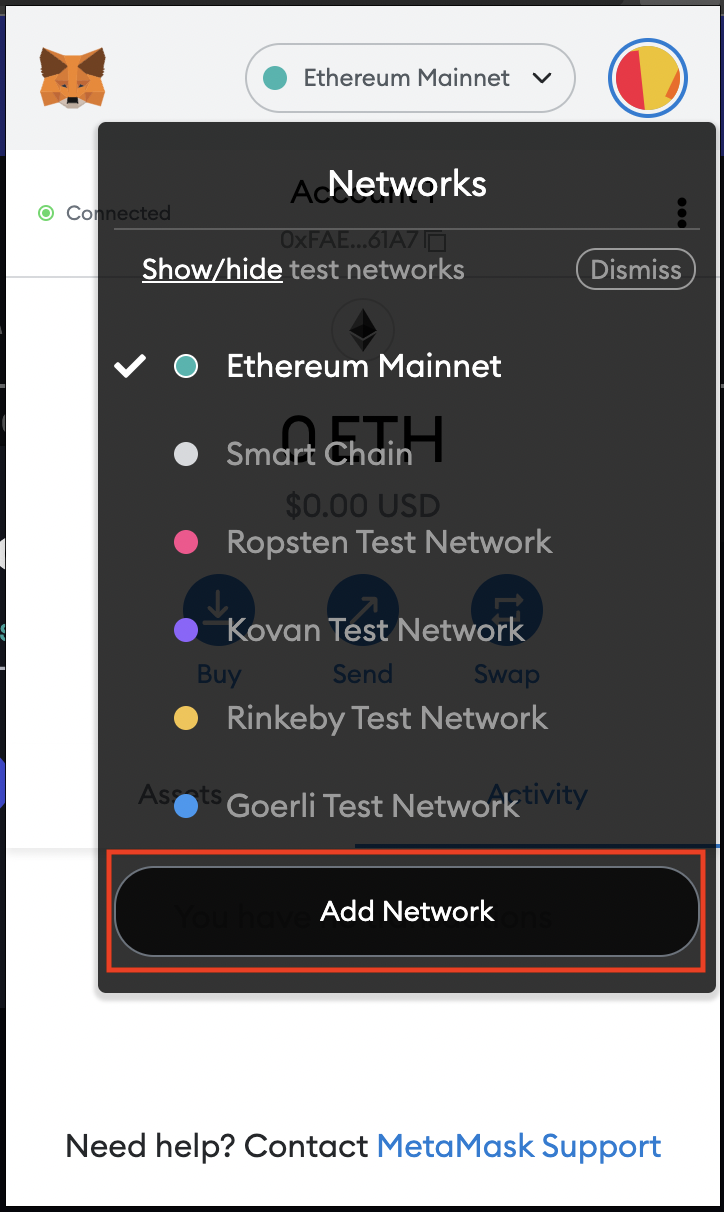
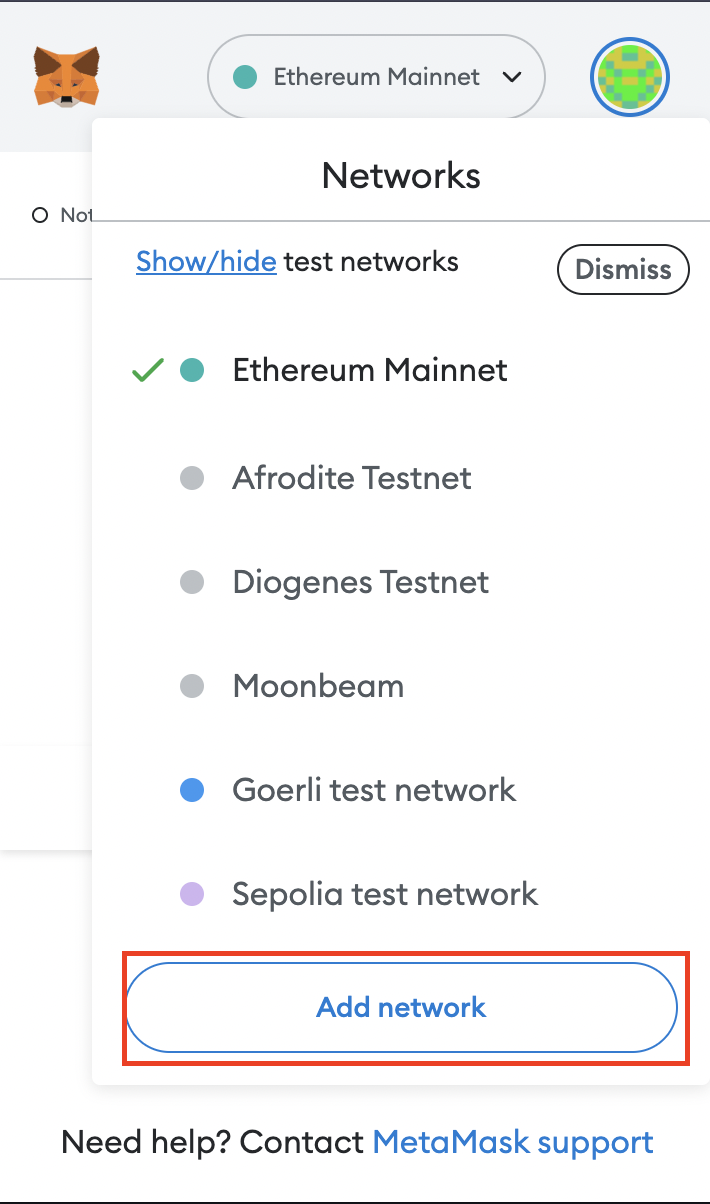
DEV-877 update ganache and metamask docs

diff --git a/docs/GANACHE.md b/docs/GANACHE.md
@@ -2,21 +2,31 @@
 
 Ganache is a personal blockchain for rapid Ethereum and Corda distributed application development. Ganache can be used for the entire development cycle. enabling you to develop, deploy, and test your dApps in a safe and deterministic environment.
 
-read more about in [doc](https://trufflesuite.com/docs/ganache/).
+Read more about in [doc](https://trufflesuite.com/docs/ganache).
 
 <br/>
 
 ## 2. CONFIGURING GANACHE WORKSPACE.
 
-1. After installing ganache, create a new ethereum workspace
+<br>
+
+Complete the Ganache [Quick Start](https://trufflesuite.com/docs/ganache/quickstart) before move on.
+
+<br>
+
+### 2.1 STARTING GANACHE
+
+1. After installed ganache, create a new ethereum workspace.
+
 > <img align="center" src="./assets/ganache-create-workspace.png" width="500"/>
 <br/>
 
-2. On the server tab, change the network id to `1337`
+2. On the server tab, change the port number to `8545`. <br>*this step it's important for run deploy script successful.*
+
 > <img align="center" src="./assets/ganache-server.png" width="500"/>
 <br/>
 
-3. On Ganache Home, chose one wallet and copy the private key
+1. On Ganache Home, chose one wallet and copy the private key.
 
 > <img align="center" src="./assets/ganache-home.png" width="500"/>
 <br/>
@@ -24,7 +34,9 @@ read more about in [doc](https://trufflesuite.com/docs/ganache/).
 > <img align="center" src="./assets/ganache-wallet-privatekey.png" width="500"/>
 <br/>
 
-1. Go to Meta Mask, click in `Import Wallet` and put the Private Key.
+### 2.2 IMPORT ACCOUNT AND NETWORK TO METAMASK
+
+1. Go to Metamask, click on `Import account` and fill in the Private Key.
 
 > <img align="center" src="./assets/metamask-import-wallet.png" width="500"/>
 <br/>
@@ -32,7 +44,7 @@ read more about in [doc](https://trufflesuite.com/docs/ganache/).
 > <img align="center" src="./assets/metamask-add-wallet.png" width="500"/>
 <br/>
 
-5. On metamask yet, click to add network, and complete with ganache info.
+1. Then, click on `Add network` and fill in with ganache info.
 
 > <img align="center" src="./assets/metamask-btn-add.png" width="500"/>
 <br/>
@@ -42,32 +54,20 @@ read more about in [doc](https://trufflesuite.com/docs/ganache/).
 
 <br/>
 
-## 3. DEPLOY NEW CONTRACT IN GANACHE.
+## 3. UPDATE ENV FILE.
+<br>
 
-1. Update the .env file with the wallet private key and address
-
-```text
-# .env
-
-#Deploy Contract
-DEPLOY_OWNER_ADDRESS=
-DEPLOY_PRIVATE_KEY=
-```
-
-2. Make sure your database are up, and run:
-
-```bash
-$ npm run deploy:local
-```
-
-### 3.1 USE A DEPLOYED CONTRACT
-If you want to use a deployed contract, you must update the env file with current address **before** run migrations.
+Don't forget update you .ENV file with ganache info.
 
 ```text
 # .env
 
-NEXT_PUBLIC_CONTRACT_ADDRESS=NetworkContractAddress
-NEXT_PUBLIC_SETTLER_ADDRESS=BeproContractAddress
-NEXT_PUBLIC_TRANSACTION_ADDRESS=BeproContractAddress
-NEXT_PUBLIC_NETWORK_FACTORY_ADDRESS=NetworkFactoryAddress
+# Create a new infura provider (or anyother web3 provider) and add the id here
+NEXT_PUBLIC_WEB3_CONNECTION=HTTP://localhost:8545
+
+# MetaMask Network Configs
+NEXT_PUBLIC_NATIVE_TOKEN_NAME=ETH
+NEXT_PUBLIC_NEEDS_CHAIN_ID=1337
+NEXT_PUBLIC_NEEDS_CHAIN_NAME=localhost
+NEXT_PUBLIC_BLOCKSCAN_LINK=
 ```

diff --git a/docs/METAMASK.md b/docs/METAMASK.md
@@ -1,22 +1,30 @@
 ## 1. ETHEREUM NETWORK SETUP
 
-Configure the EVM network explorer, chain identification name and token, for exemple using Kovan.
+Be sure have [Metamask](https://metamask.io/download/) extensions installed.
+<br>
 
-Or emulate your own block chain using [Ganache](../docs/GANACHE.md), check Ganache  [doc]('https://trufflesuite.com/ganache/') for more.
+Then fill in the ENV file with Ethereum EVM Network, for exemple using Kovan.
+<br>
 
 ```text
 # .env
 
+# Create a new infura provider (or anyother web3 provider) and add the id here
+NEXT_PUBLIC_WEB3_CONNECTION=wss://kovan.infura.io/ws/v3/
+
+# MetaMask Network Configs
 NEXT_PUBLIC_NATIVE_TOKEN_NAME=ETH
 NEXT_PUBLIC_NEEDS_CHAIN_ID=42
 NEXT_PUBLIC_NEEDS_CHAIN_NAME=kovan
 NEXT_PUBLIC_BLOCKSCAN_LINK=kova.etherscan.com
 ```
 
+Or emulate your own block chain using [Ganache](../docs/GANACHE.md).
+
 ## 2. ADMIN WALLET
 
 The admin wallet is the address of the contracts governor, this person will be able
-manege the default network, also to access the `/administration` page where actions for manege default settings for `ERC20` and `Network` are available. Check Networks Manager [doc](../docs/NETWORK-MANAGER.md). for more
+to manage the default network, also to access the `/administration` page where actions for manage default settings for `ERC20` and `Network` are available. Check Networks Manager [doc](../docs/NETWORK-MANAGER.md) for more.
 
 ```text
 # .env
